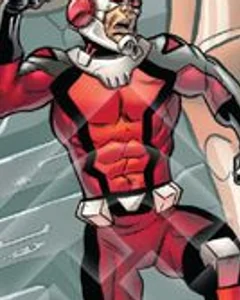
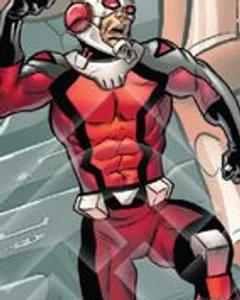
Replace and realign ten character portraits

diff --git a/index.html b/index.html
@@ -2,4 +2,4 @@
 <header class="mast"><div class="shell"><div class="eyebrow">Campaign Casting Guide</div><h1>Marvel Champions<br>Thematic Matchups</h1><p class="deck">Every scenario paired with two story-appropriate heroes, sequenced across the collection, with repeat appearances clearly marked and the full reasoning preserved.</p><div class="stats"><div class="stat"><strong>65</strong><span>Battle matchups</span></div><div class="stat"><strong>69</strong><span>Unique heroes used</span></div><div class="stat"><strong>18</strong><span>Product groups</span></div><div class="stat"><strong id="shownCount">65</strong><span>Currently shown</span></div></div></div></header>
 <div class="toolbar-wrap"><div class="shell"><div class="toolbar"><input class="control" id="search" type="search" placeholder="Search heroes, villains, campaigns or context…" aria-label="Search"><select class="control" id="campaignSelect" aria-label="Campaign filter"></select><select class="control player-count" id="playerCount" aria-label="Player count for encounter difficulty ratings"></select><button class="btn mobile-tools-toggle" id="mobileToolsToggle" type="button" aria-expanded="false" aria-controls="toolbarActions">Tools</button><div class="actions" id="toolbarActions"><button class="btn" id="hideRepeats">Hide repeat heroes</button><button class="btn" id="expand">Collapse all</button><button class="btn" id="resetFilters" disabled>Reset filters</button><button class="btn" id="copyBrief">Copy for work chat</button><button class="btn" id="downloadJson">Export JSON</button><button class="btn primary" id="print">Print / PDF</button></div></div><div class="filter-feedback" id="filterFeedback" role="status" aria-live="polite">Showing all 65 matchups</div><div class="filter-strip" id="campaignChips"></div></div></div>
 <main class="shell"><section class="tuner-guide" aria-label="Encounter tuner guide"><div><strong>Choose the encounter flavor.</strong><span>Every battle keeps the printed setup as its default, then offers published VillainTheory easier, thematic, harder, and Maximum recipes where available. Maximum only appears when the guide has a distinct recipe rated above Harder. Difficulty deltas are relative to that villain, not a global power ranking.</span></div><span class="tuner-global-hint">Set player count above ↑</span></section><div id="campaigns"></div><div class="notice"><span>⚠</span><div><strong>Sequence constraint:</strong> Luke Cage and Jessica Jones are held until after <em>Agents of S.H.I.E.L.D.</em>. Nebula, Magneto, and Angel enter the hero roster only after their villain encounters. <strong>🔁</strong> marks every hero appearance after their first.</div></div><details class="hero-usage" open><summary><span>Hero appearance counts</span><span class="hero-usage-summary" id="heroUsageSummary"></span></summary><div class="hero-usage-grid" id="heroUsage"></div></details></main>
-<footer class="footer"><div class="shell"><strong>Source notes</strong><p>This is a fan-made planning aid. Product/scenario structure and official encounter modules follow printed scenario setup cards and official preconstructed lists where available. The optional encounter tuner uses published VillainTheory combinations cataloged by Modular Champions and the source guide’s highest-rated recipes, with solo, two-player, and 3–4-player modular-set ratings from VillainTheory’s May 2026 matrix. Official setup always remains the default; unavailable alternatives are labeled rather than invented. Most portraits are cropped from Fantasy Flight Games’ Marvel Champions card illustrations; remaining characters use locally cached community reference art. No portrait requires a network connection. Hero recommendations start with the most-liked MarvelCDB deck that includes a substantial play guide. A qualifying deck published within the last 12 months is preferred only when it has at least 70% of the community leader’s likes. Recommendations were checked August 3, 2026; Luke Cage and Jessica Jones remain pending until MarvelCDB publishes decklists for them. Marvel characters and imagery belong to their respective rights holders.</p><div class="source-links"><a href="https://www.fantasyflightgames.com/en/products/marvel-champions-the-card-game/" target="_blank" rel="noreferrer">Fantasy Flight Games</a><a href="https://modularchampions.com" target="_blank" rel="noreferrer">Modular Champions</a><a href="https://docs.google.com/document/d/1AOED4MPkrEGIOAVzV4VJaFAc4bWHfhstOSVTqhSpvHU/edit" target="_blank" rel="noreferrer">VillainTheory recipes</a><a href="https://docs.google.com/spreadsheets/d/1nmrzdk9KpIvOWY8eRy5okYFDOmWaxK7UPdkHS_Hlx7k/edit" target="_blank" rel="noreferrer">Difficulty matrix</a><a href="https://marvelcdb.com/" target="_blank" rel="noreferrer">MarvelCDB</a><a href="https://hallofheroeslcg.com/browse/" target="_blank" rel="noreferrer">Hall of Heroes</a><a href="https://www.fantasyflightgames.com/en/news/2026/4/16/fear-no-evil/" target="_blank" rel="noreferrer">Fear No Evil preview</a></div></div></footer><div class="art-status hidden" id="artStatus">Local portraits ready</div><div class="toast" id="toast"></div><script src="app.js?v=20260805-daredevil"></script></body></html>
+<footer class="footer"><div class="shell"><strong>Source notes</strong><p>This is a fan-made planning aid. Product/scenario structure and official encounter modules follow printed scenario setup cards and official preconstructed lists where available. The optional encounter tuner uses published VillainTheory combinations cataloged by Modular Champions and the source guide’s highest-rated recipes, with solo, two-player, and 3–4-player modular-set ratings from VillainTheory’s May 2026 matrix. Official setup always remains the default; unavailable alternatives are labeled rather than invented. Most portraits are cropped from Fantasy Flight Games’ Marvel Champions card illustrations; remaining characters use locally cached community reference art. No portrait requires a network connection. Hero recommendations start with the most-liked MarvelCDB deck that includes a substantial play guide. A qualifying deck published within the last 12 months is preferred only when it has at least 70% of the community leader’s likes. Recommendations were checked August 3, 2026; Luke Cage and Jessica Jones remain pending until MarvelCDB publishes decklists for them. Marvel characters and imagery belong to their respective rights holders.</p><div class="source-links"><a href="https://www.fantasyflightgames.com/en/products/marvel-champions-the-card-game/" target="_blank" rel="noreferrer">Fantasy Flight Games</a><a href="https://modularchampions.com" target="_blank" rel="noreferrer">Modular Champions</a><a href="https://docs.google.com/document/d/1AOED4MPkrEGIOAVzV4VJaFAc4bWHfhstOSVTqhSpvHU/edit" target="_blank" rel="noreferrer">VillainTheory recipes</a><a href="https://docs.google.com/spreadsheets/d/1nmrzdk9KpIvOWY8eRy5okYFDOmWaxK7UPdkHS_Hlx7k/edit" target="_blank" rel="noreferrer">Difficulty matrix</a><a href="https://marvelcdb.com/" target="_blank" rel="noreferrer">MarvelCDB</a><a href="https://hallofheroeslcg.com/browse/" target="_blank" rel="noreferrer">Hall of Heroes</a><a href="https://www.fantasyflightgames.com/en/news/2026/4/16/fear-no-evil/" target="_blank" rel="noreferrer">Fear No Evil preview</a></div></div></footer><div class="art-status hidden" id="artStatus">Local portraits ready</div><div class="toast" id="toast"></div><script src="app.js?v=20260805-iconic-pass"></script></body></html>

diff --git a/app.js b/app.js
@@ -461,7 +461,7 @@ const ratingKey=s=>(s||'').toLowerCase().normalize('NFKD').replace(/[^a-z0-9]+/g
 const escapeHtml=value=>String(value??'').replace(/[&<>"']/g,character=>({'&':'&amp;','<':'&lt;','>':'&gt;','"':'&quot;',"'":'&#39;'}[character]));
 function persistTunerSettings(){try{localStorage.setItem(TUNER_STORAGE_KEY,JSON.stringify({playerCount:state.playerCount,moduleChoices:state.moduleChoices}))}catch{}}
 const initials=name=>name.replace(/\([^)]*\)/g,'').split(/\s+/).filter(Boolean).slice(0,2).map(x=>x[0]).join('').toUpperCase();
-function characterCard(id,repeat=false){const m=DATA.characters[id]||{display:id,role:'hero',aliases:[id],hints:[]},url=`images/portraits/${id}.webp?v=20260805-face-audit-4`,deckRec=MARVELCDB_DECKS[id],deck=m.role==='hero'?(deckRec?`<a class="deck-link" href="${deckRec.url}" target="_blank" rel="noopener noreferrer" aria-label="Open the recommended ${m.display} deck on MarvelCDB" title="MarvelCDB recommendation · ${deckRec.likes} likes · ${deckRec.selection==='recent'?'published within 12 months':'community classic'}">Deck pick ↗</a>`:'<span class="deck-pending" title="No published MarvelCDB deck yet">Deck pending</span>'):'';return `<div class="character ${m.role}" data-character="${id}" title="${m.display}${repeat?' — repeat appearance':''}">${repeat?'<span class="repeat" aria-label="Repeat appearance">🔁</span>':''}<div class="portrait"><span class="monogram">${initials(m.display)}</span><img loading="lazy" alt="${m.display} portrait" src="${url}" onload="this.parentElement.classList.add('loaded')" onerror="this.remove()"></div>${deck}<div class="character-name">${m.display}</div></div>`}
+function characterCard(id,repeat=false){const m=DATA.characters[id]||{display:id,role:'hero',aliases:[id],hints:[]},url=`images/portraits/${id}.webp?v=20260805-iconic-pass`,deckRec=MARVELCDB_DECKS[id],deck=m.role==='hero'?(deckRec?`<a class="deck-link" href="${deckRec.url}" target="_blank" rel="noopener noreferrer" aria-label="Open the recommended ${m.display} deck on MarvelCDB" title="MarvelCDB recommendation · ${deckRec.likes} likes · ${deckRec.selection==='recent'?'published within 12 months':'community classic'}">Deck pick ↗</a>`:'<span class="deck-pending" title="No published MarvelCDB deck yet">Deck pending</span>'):'';return `<div class="character ${m.role}" data-character="${id}" title="${m.display}${repeat?' — repeat appearance':''}">${repeat?'<span class="repeat" aria-label="Repeat appearance">🔁</span>':''}<div class="portrait"><span class="monogram">${initials(m.display)}</span><img loading="lazy" alt="${m.display} portrait" src="${url}" onload="this.parentElement.classList.add('loaded')" onerror="this.remove()"></div>${deck}<div class="character-name">${m.display}</div></div>`}
 const MODULE_LABELS={official:['Official encounter setup','Official'],variable:['Variable official setup','Choose sets'],"self-contained":['Encounter modules','Self-contained'],campaign:['Official campaign setup','Pairing confirmed'],special:['Official special setup','Special setup']};
 const TUNER_LABELS={official:'Official',easier:'Easier',thematic:'Thematic',harder:'Harder',maximum:'Maximum'};
 function tunerFor(s){return DATA.difficultyTuner?.scenarios?.[s.id]||null}
